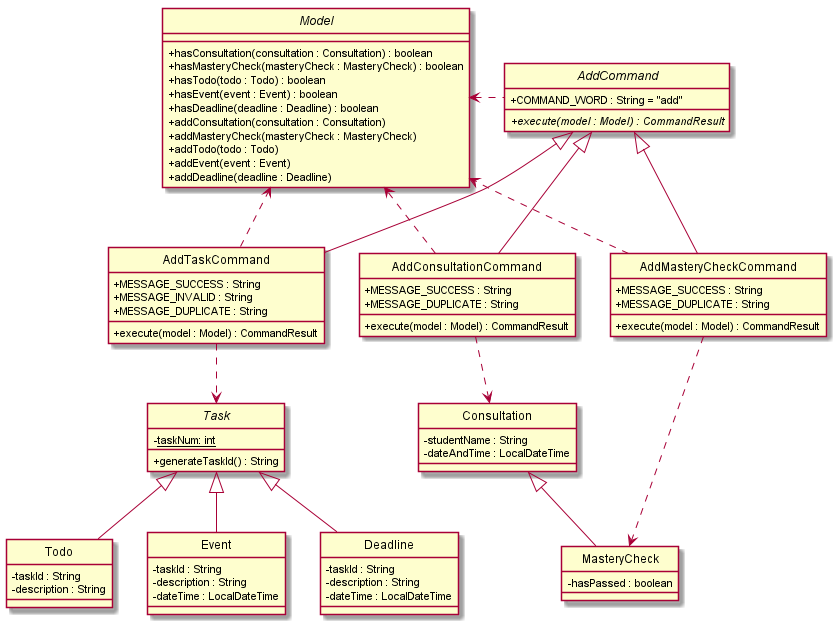
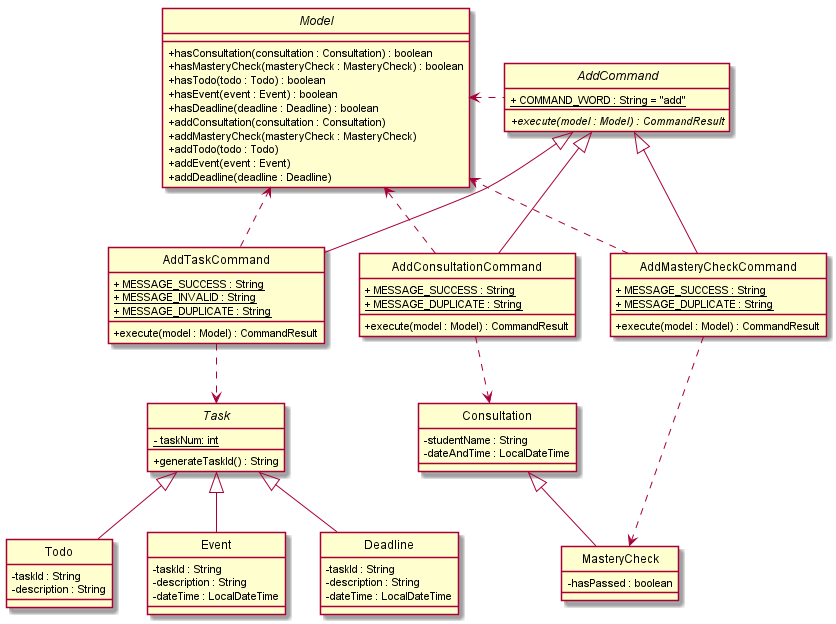
Update ug diagrams static attributes and dg test appendix and dg AddCommand explanations

diff --git a/docs/DeveloperGuide.md b/docs/DeveloperGuide.md
@@ -1056,31 +1056,89 @@ testers are expected to do more *exploratory* testing.
    1. Resize the window to an optimum size. Move the window to a different location. Close the window.
 
    1. Re-launch the app by double-clicking the jar file.<br>
-       Expected: The most recent window size and location is retained.
+      Expected: The most recent window size and location is retained.
 
-1. _{ more test cases … }_
+1. Saving login details
 
-### Deleting a student
+   1. Successfully Edit the correct `username` and `password` upon launching the program.
+      Expected: `login.json` file saves most recent correct `username` and `password`.
 
-1. Deleting a student while all students are being shown
+1. Shutdown
 
-   1. Prerequisites: List all students using the `list` command. Multiple students in the list.
+   1. Click the cross button at top right side of window for WindowsOS, and top left side of window for MacOS.
 
-   1. Test case: `delete 1`<br>
-      Expected: First contact is deleted from the list. Details of the deleted contact shown in the status message. Timestamp in the status bar is updated.
+   1. Type `exit` command in the Command Box in GUI.
+      Expected: Stops and closes the program.
 
-   1. Test case: `delete 0`<br>
-      Expected: No student is deleted. Error details shown in the status message. Status bar remains the same.
+### Deleting a Consultation
 
-   1. Other incorrect delete commands to try: `delete`, `delete x`, `...` (where x is larger than the list size)<br>
+1. Deleting a `Consultation` while all `Consultation`s are being shown
+
+   1. Prerequisites: List all `Consultation`s using the `view -c` command. Multiple `Consultation`s in the list.
+
+   1. Test case: `delete -c 1`<br>
+      Expected: First `Consultation` is deleted from the list. Details of the deleted `Consultation` shown in the status message. GUI `Consultation` list is immediately updated.
+
+   1. Test case: `delete -c 0`<br>
+      Expected: No `Consultation` is deleted. Error details shown in the status message. GUI `Consultation` list under `Consultation` tab remains the same.
+
+   1. Other incorrect delete commands to try: `delete`, `delete -c x`, `...` (where x is larger than the list size or smaller than 1)<br>
       Expected: Similar to previous.
 
-1. _{ more test cases … }_
+### Adding a Deadline
 
+1. Adding a `Deadline`
+
+   1. Test case: `add -d example deadline d/2020-12-12 t/17:55`<br>
+      Expected: A new `Deadline` is added to the end of the list. Details of the newly added `Deadline` shown in the status message. GUI `Task` list under the `Task` tab is immediately updated.
+      
+   1. Test case: `add -d d/2020-12-12 t/17:55`<br>
+      Expected: No `Deadline` is added due to missing description. Error details shown in the status message. GUI `Task` list remains the same.
+      
+   1. Other incorrect add commands to try: `add -d example deadline d/ t/17:55`, `add -d example deadline d/2020-02-31 t/20:20`, `...`<br>
+      Expected: Similar to previous due to incorrect date and time or missing input.
+
+### Viewing a Student
+
+1. View a `Student` while all `Student`s are being shown
+
+   1. Prerequisites: At least have 1 `Student` under the `Student` tab in GUI.
+
+   1. Test case: `view -s peter pan`<br>
+      Expected: Success message of viewing 1 `Student` is shown in the status message. `Student` with name `peter pan` is filtered and shown in the `Student` list on the GUI.
+
+   1. Test case: `view -s invalid name`<br>
+      Expected: No `Student` of such name is found. GUI displays empty `Student` list, showing "No Student" text.
+   
+   1. Test case: `view -s`<br>
+      Expected: Success message of viewing all `Student`s is shown in the status message. All `Student`s displayed in the GUI under the `Student` tab.
+   
+### Edit Login Details
+
+1. Edit `Username` and / or `Password`
+
+   1. Prerequisites: A tutor of CS1101S, to be able to log into Source Academy.
+   
+   1. Test case: `edit -l u/username p/password`, `edit -l u/username` or `edit -l p/password`<br>
+      Expected: Success message of editing username and password is shown in the status message. `username` and `password` saved to `login.json` file. Welcome message reflected on GUI.
+
+   1. Test case: `edit -l`, `edit -l t/password`, `...`<br>
+      Expected: Error message shown in the status message. GUI welcome message remains unchanged. `login.json` file remains unchanged.
+   
 ### Saving data
 
 1. Dealing with missing/corrupted data files
 
-   1. _{explain how to simulate a missing/corrupted file, and the expected behavior}_
+   1. Data file, `jarvis.json` is edited incorrectly manually while the program is running.
+      Expected: No harm is caused. Once program shuts down or a new command is inputted in GUI, `jarvis.json` is rewritten as per what is correct previously.
 
-1. _{ more test cases … }_
+   1. No Internet Connection while using the program.
+      Expected: No harm is caused. Changes are made and saved locally after the program is launched and the GUI is up. New modifications through using the program is still saved in `jarvis.json`.
+
+1. Autosave per command and on shutdown
+
+   1. Successful command inputted in GUI
+      Expected: `jarvis.json` is saved automatically after every successful command. Does not matter if the command affects `jarvis.json` file data or not.
+   
+   1. Unsuccessful command inputted in GUI
+      Expected: `jarvis,json` does not update or save automatically. The incorrect command is ignored.
